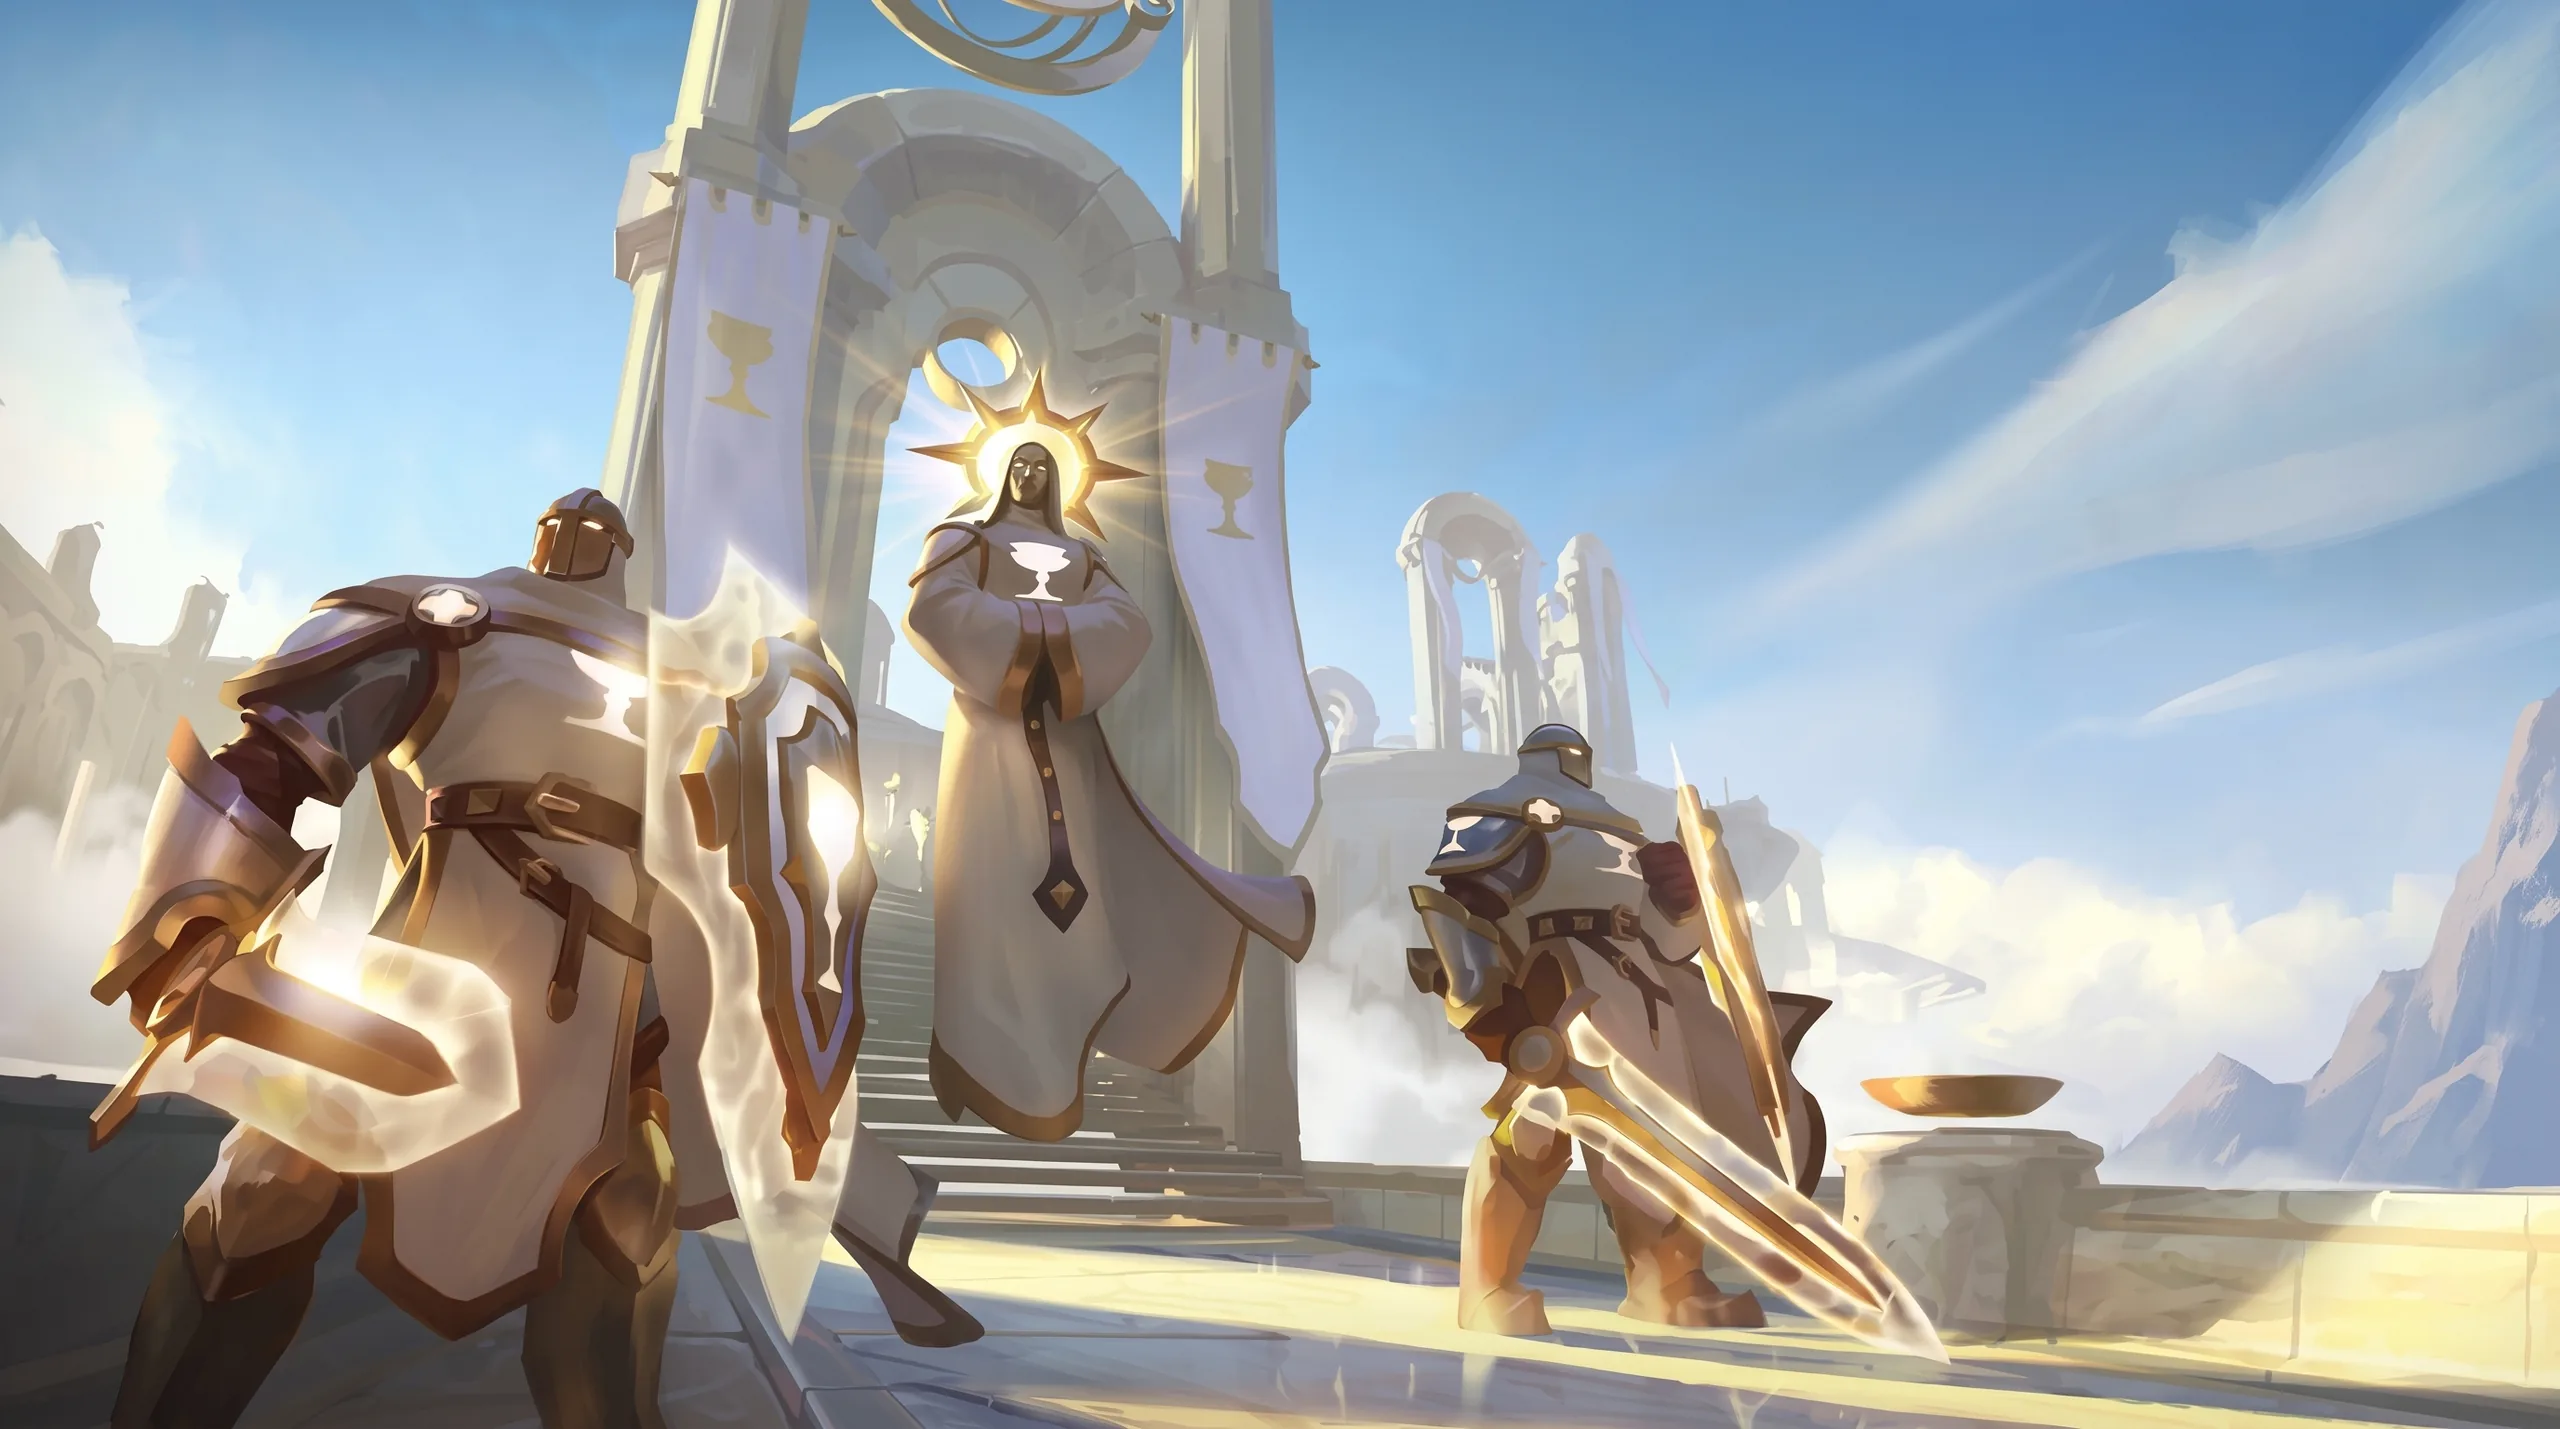
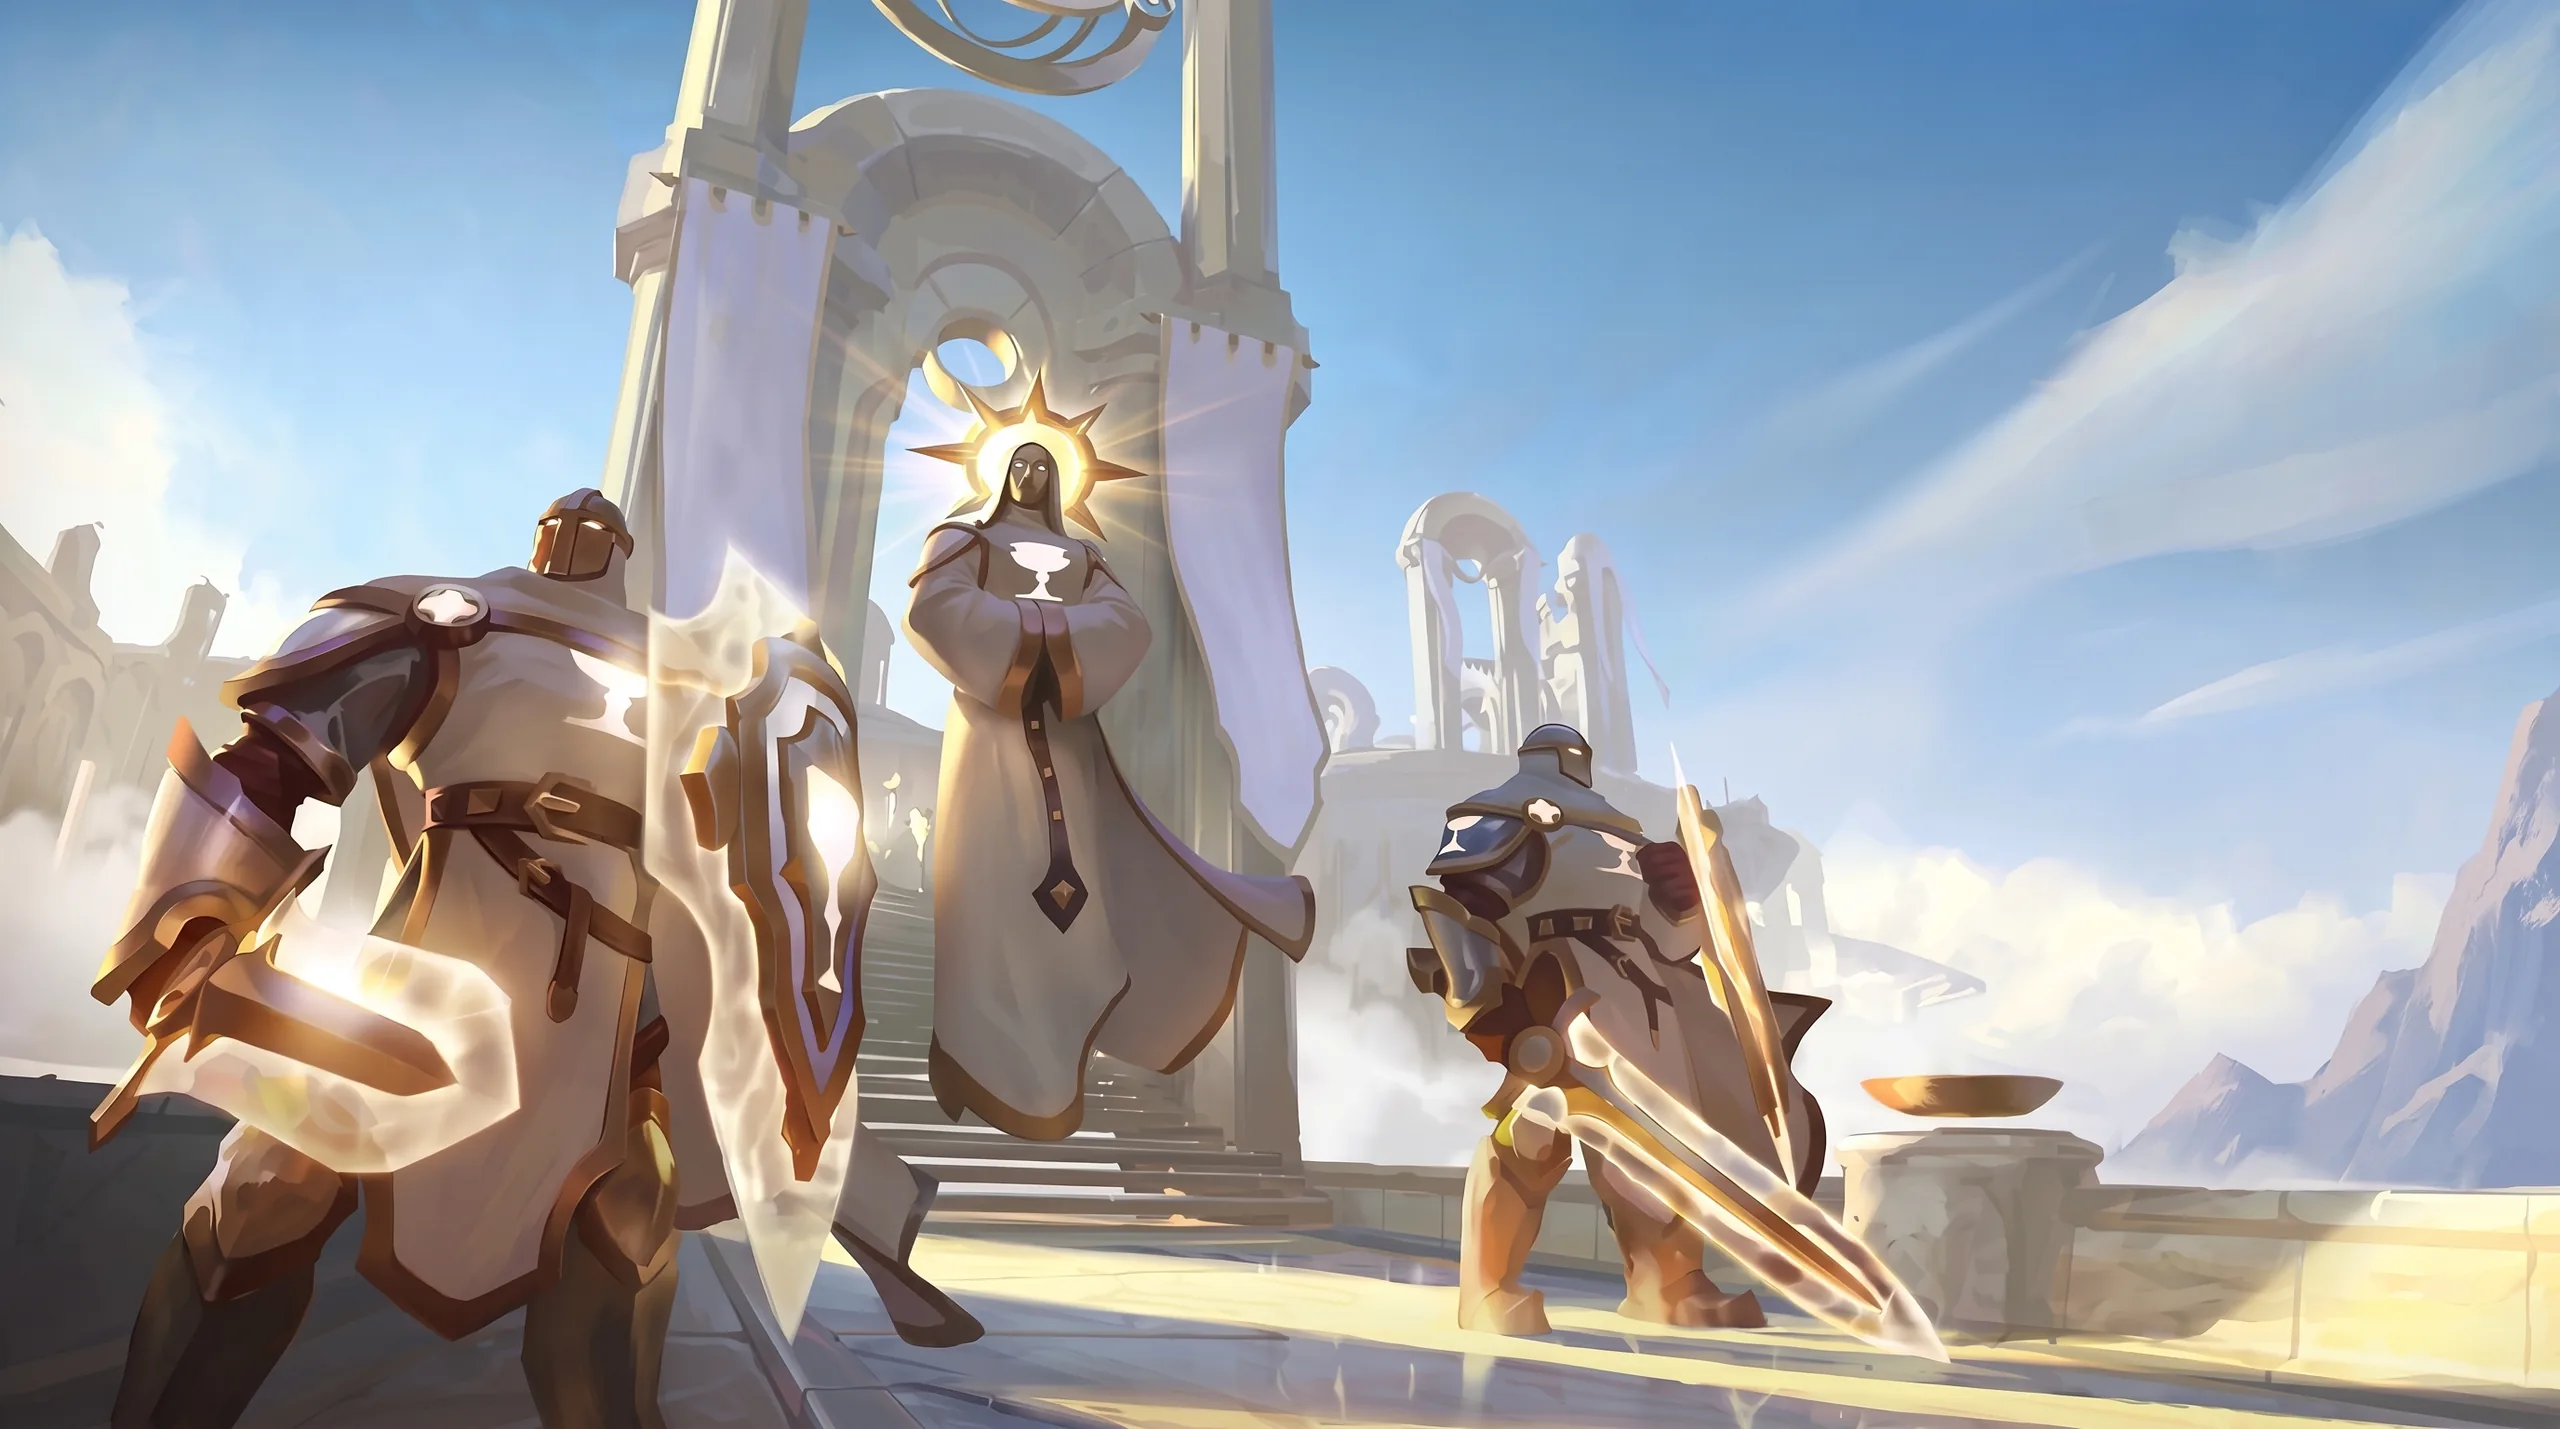
Fondos y tarjetas desde las versiones 2K
Hideouts pasa a 2560 px (con versión de 1600 px para móvil) y el resto se
regenera desde las imágenes 2K.

Changed region(s): [[0.25, 0.2155, 0.3125, 0.3079], [0.4688, 0.3079, 0.5, 0.3695], [0.375, 0.3079, 0.4062, 0.3387]]

diff --git a/public/css/styles.css b/public/css/styles.css
@@ -93,6 +93,7 @@ body {
 @media (max-width: 960px) {
   .fondo__capa--inicio { background-image: url('../assets/fondo-inicio-v2-movil.webp'); }
   .fondo__capa--caminos { background-image: url('../assets/fondo-caminos-v2-movil.webp'); }
+  .fondo__capa--hideouts { background-image: url('../assets/fondo-hideouts-v2-movil.webp'); }
 }
 
 /* Sin JavaScript (o antes de que cargue) se ve el fondo del inicio. */

diff --git a/README.md b/README.md
@@ -12,9 +12,9 @@ Avalon abiertas que registra la comunidad.
 
 - Fondos de Hideouts y Caminos de Avalon y las tres tarjetas de la portada
   (Busca hideouts, Sigue las rutas de Avalon, Registra conexiones) con las
-  imágenes nuevas en alta resolución: `fondo-caminos-v2.webp` (2560 px, y
-  1600 px para móvil), `fondo-hideouts-v2.webp` (1376 px, su tamaño real) y
-  `tarjeta-*-v2.webp` (1400 px). Los nombres nuevos evitan que los
+  imágenes nuevas en 2K: `fondo-caminos-v2.webp` y `fondo-hideouts-v2.webp`
+  (2560 px, con versión `-movil` de 1600 px) y `tarjeta-*-v2.webp`
+  (1400 px). Los nombres nuevos evitan que los
   navegadores sigan mostrando las versiones anteriores guardadas en caché.
 
 ### v14.1 — Sugerencias al día, hideouts con su color y ajustes de Caminos
